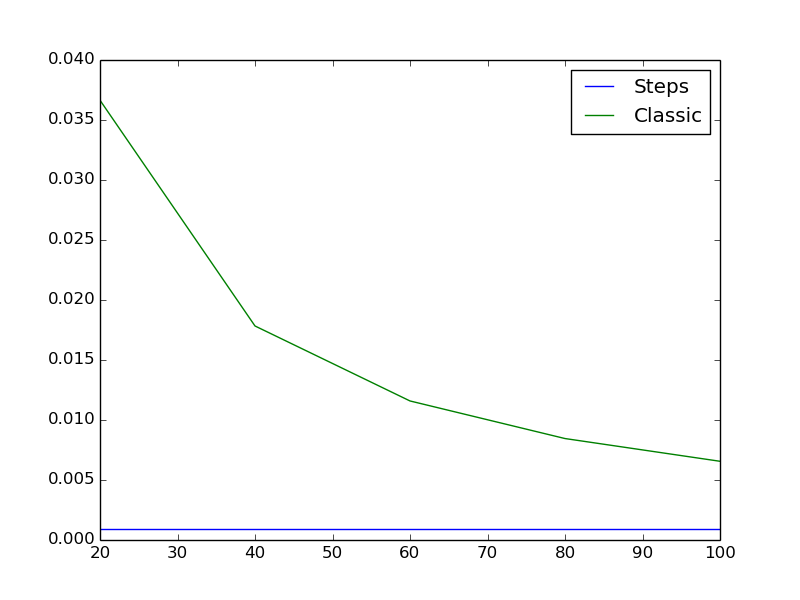
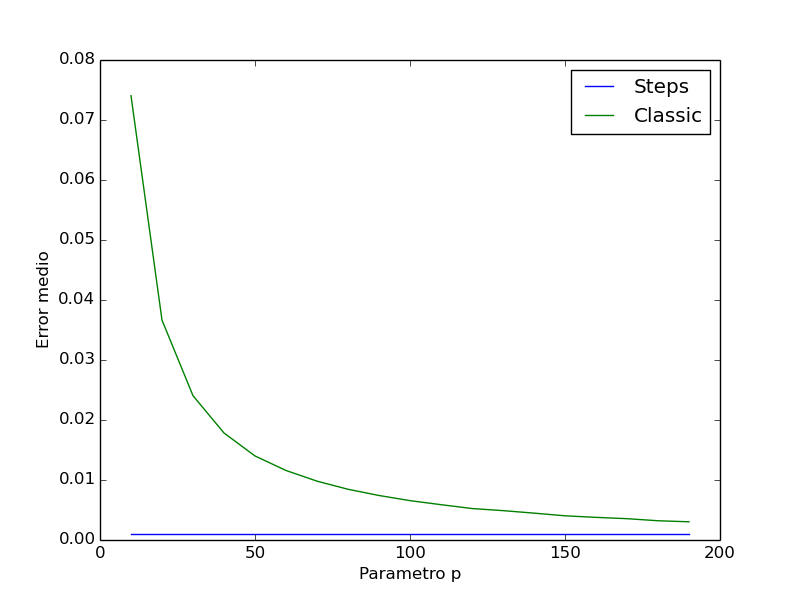
informe, bugs, cosas

diff --git a/tp2/informe/teorico.tex b/tp2/informe/teorico.tex
@@ -4,6 +4,15 @@ En esta sección realizamos un análsis teórico sobre la performance de los dif
 \subsection{Performance en distribuciones uniformes}
 Para responder la pregunta de qué estimador debe exhibir mejor performance en un dataset con distribución uniforme, hace falta primero analizar con detenimiento este tipo de distribución. La distribución uniforme ``reparte'' los elementos en el rango disponible de forma equitativa: todos los enteros tienen la misma probabilidad de ocurrir.
 
+Es decir, la forma de un histograma clásico de la distribución tendrá todas las barras del mismo ancho (por invariante de construcción del histograma) y de la misma altura, pues todos los rangos de idéntico ancho tienen aproximadamente la misma cantidad de elementos.
+
+A su vez, la forma de un histograma de Distribution Steps tendrá todas las barras de la misma altura (por invariante de construcción del histograma) y del mismo ancho, pues la cantidad de elementos que resulta ser menor a un cierto porcentaje de los demás está relacionado directamente con ese porcentaje. Dicho en otras palabras, suponiendo un histograma de 10 barras, las barras tendrán un ancho aproximado al 10\% del rango de la distribución, pues eso mantiene la condición (de Distribution Steps) de que el límite derecho de la barra i deja a su izquierda 10i\% de los elementos (ver la sección de Estimadores para más información).
+
+Entonces concluimos que, para un mismo parámetro (cantidad de barras) ambas distribuciones ``dibujarán'' prácticamente el mismo histograma. Esto podría inducir a pensar que la respuesta podría ser similar y que por lo tanto la performance será la misma, pero estaríamos olvidando que ``usan'' esos histogramas de maneras distintas.
+
+Para las consultas por igualdad el histograma clásico computa la probabilidad dividiendo la altura de la barra en la que cae el número consultado por la cantidad de elementos totales. De este modo, si la cantidad de barras es 20, una distribución uniforme producirá una respuesta del 20\%
+
+
 
 En esta situación tanto el estimador basado en histograma clásico como el basado en Distribution Steps deberían exhibir la misma performance cuando son construidos con los mismos parámetros (cantidad de buckets y cantidad de steps respectivamente). Esto se debe, esencialmente, a que en el histograma de un distribución uniforme la cantidad de elementos que caen en cada bucket es, en términos probabilísticos, la misma. Esto quiere decir que los buckets no solo comparten la longitud sino que, en este caso, tienen la misma altura. Los steps del segundo estimador están distribuidos de tal manera que en cada intervalo se encuentra la misma cantidad de elementos, pero entonces por lo que vimos anteriormente, en el caso de la distribución uniforme coinciden con los buckets del histograma. Por lo tanto los estimadores no son significativamente diferentes.
 

diff --git a/tp2/source/empirico.py b/tp2/source/empirico.py
@@ -19,7 +19,9 @@ def calcular_performance_global(metodo_testeable, metodo_perfecto):
     performances_intermedias = calcular_performances_intermedias(metodo_testeable, metodo_perfecto, valores_consultas)
     return sum(performances_intermedias) / len(valores_consultas)
 
+
 def getxy(datos):
+    # transforma un diccionario en dos arreglos key, value
     x = []
     y = []
     for p in sorted(datos.keys()):
@@ -31,7 +33,7 @@ def getxy(datos):
 def calcular_error(archivo, tipo_estimador, tipo):
     # 'tipo' debe ser "equal" o "greater"
     errores = {}   # diccionario 'p' -> error medio
-    for p in (20, 40, 60, 80, 100):
+    for p in range(10, 200, 10):
         if tipo_estimador == "classic":
             estimador = estimators.ClassicHistogram(archivo, 'datos', 'c', p)
         elif tipo_estimador == "steps":
@@ -50,6 +52,8 @@ def graficar(archivo, datos):
     for tipo_estimador in datos:
         x, y = getxy(datos[tipo_estimador])
         plt.errorbar(x, y, label=tipo_estimador.title())
+    plt.xlabel("Parametro p")
+    plt.ylabel("Error medio")
     plt.legend()
     plt.savefig(archivo)
 

diff --git a/tp2/source/ttest_performances.py b/tp2/source/ttest_performances.py
@@ -6,15 +6,15 @@ import empirico
 from scipy import stats
 
 def graficar_dataset(nombre_bd, tabla, columna):
+	plt.clf()
 	bd = InterfazBD(nombre_bd)
 	values = list(bd.consultar(tabla, columna, ""))
 	values = [v for (v,) in values]
 	plt.hist(values, 200)
-	#x, y = dame_distribucion(nombre_bd, tabla, columna)
-	#plt.plot(x, y, ".")
-	plt.ylabel("valor")
-	plt.xlabel("cantidad" + " (" + nombre_bd + " - " + tabla + " - " + columna + ")")
-	plt.show()
+	plt.ylabel("Valor")
+	plt.xlabel("Cantidad" + " (" + nombre_bd + " - " + tabla + " - " + columna + ")")
+	archivo = "datasets/img/" + columna + ".png"
+	plt.savefig(archivo)
 
 def graficar_datasets_catedra():
 	for i in range(0,10):
@@ -60,5 +60,6 @@ def ttest_estimadores(bd, tabla, col):
 	
 	return p_equal, p_greater
 
-#graficar_datasets_catedra()
-print(diferencias_performance())
+if __name__ == "__main__":
+	graficar_datasets_catedra()
+	print(diferencias_performance())

diff --git a/tp2/source/estimators.py b/tp2/source/estimators.py
@@ -117,10 +117,11 @@ class DistributionSteps(Estimador):
         self.delta = min(0.5/self.parametro, self.get_density())   # extraido del paper
 
     def get_density(self):
+        # algoritmo extraido del paper
         acum = sum([ocurrencias**2
                     for valor, ocurrencias in self.db.realizar_consulta(self.consulta_cuenta_ocurrencias)
-                    if self.bordes.count(valor < 2)])   # extraido del paper
-        return acum / float((self.n_registros**2))      # idem
+                    if self.bordes.count(valor < 2)])
+        return acum / float((self.n_registros**2))
 
     def es_extremo(self, valor):
         return valor == self.bordes[0] or valor == self.bordes[-1]

diff --git a/tp2/informe/estimadores.tex b/tp2/informe/estimadores.tex
@@ -1,1 +1,6 @@
 \section{Estimadores}
+
+Los estimadores que diseñamos fueron tres: un estimador basado en histogramas clásicos (punto 4.1 del paper de Piatetsky-Shapiro), un estimador basado en ``pasos de distribución'' (punto 4.2 del mismo paper) y uno propio.
+
+%hay que hablar de la decisión de devolver la altura de la barrita en el clásico para comparación por igual (porque no podemos tener más información que esa)
+%y de la decisión de minimizar el error en el caso promedio porque es lo mejor según el paper
